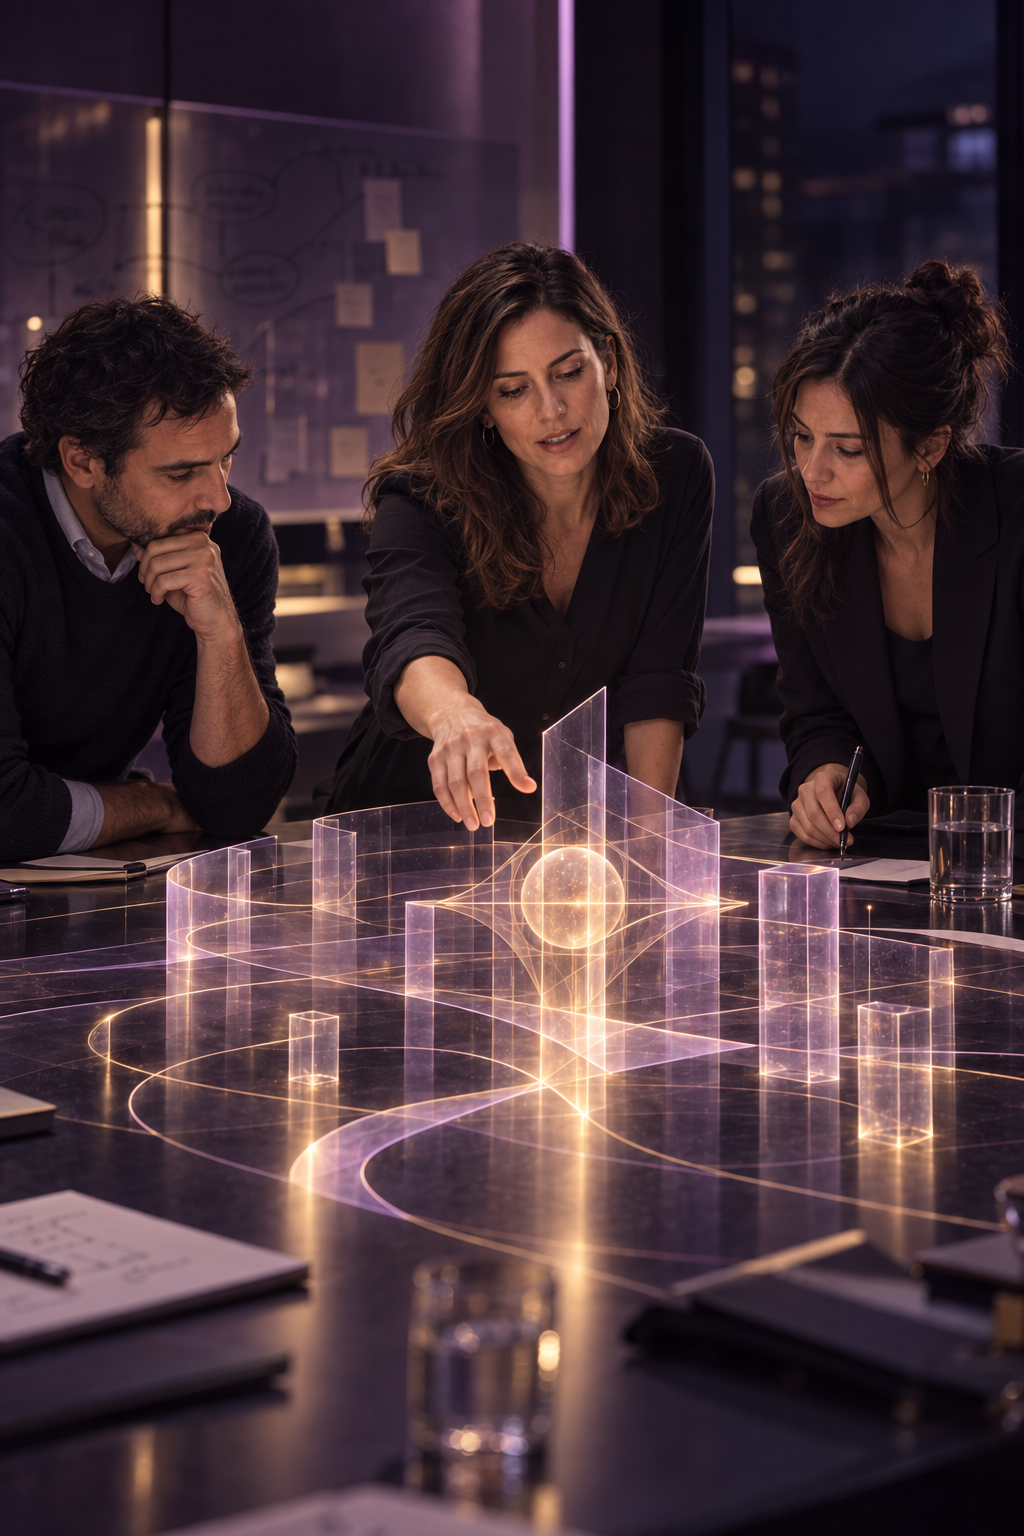
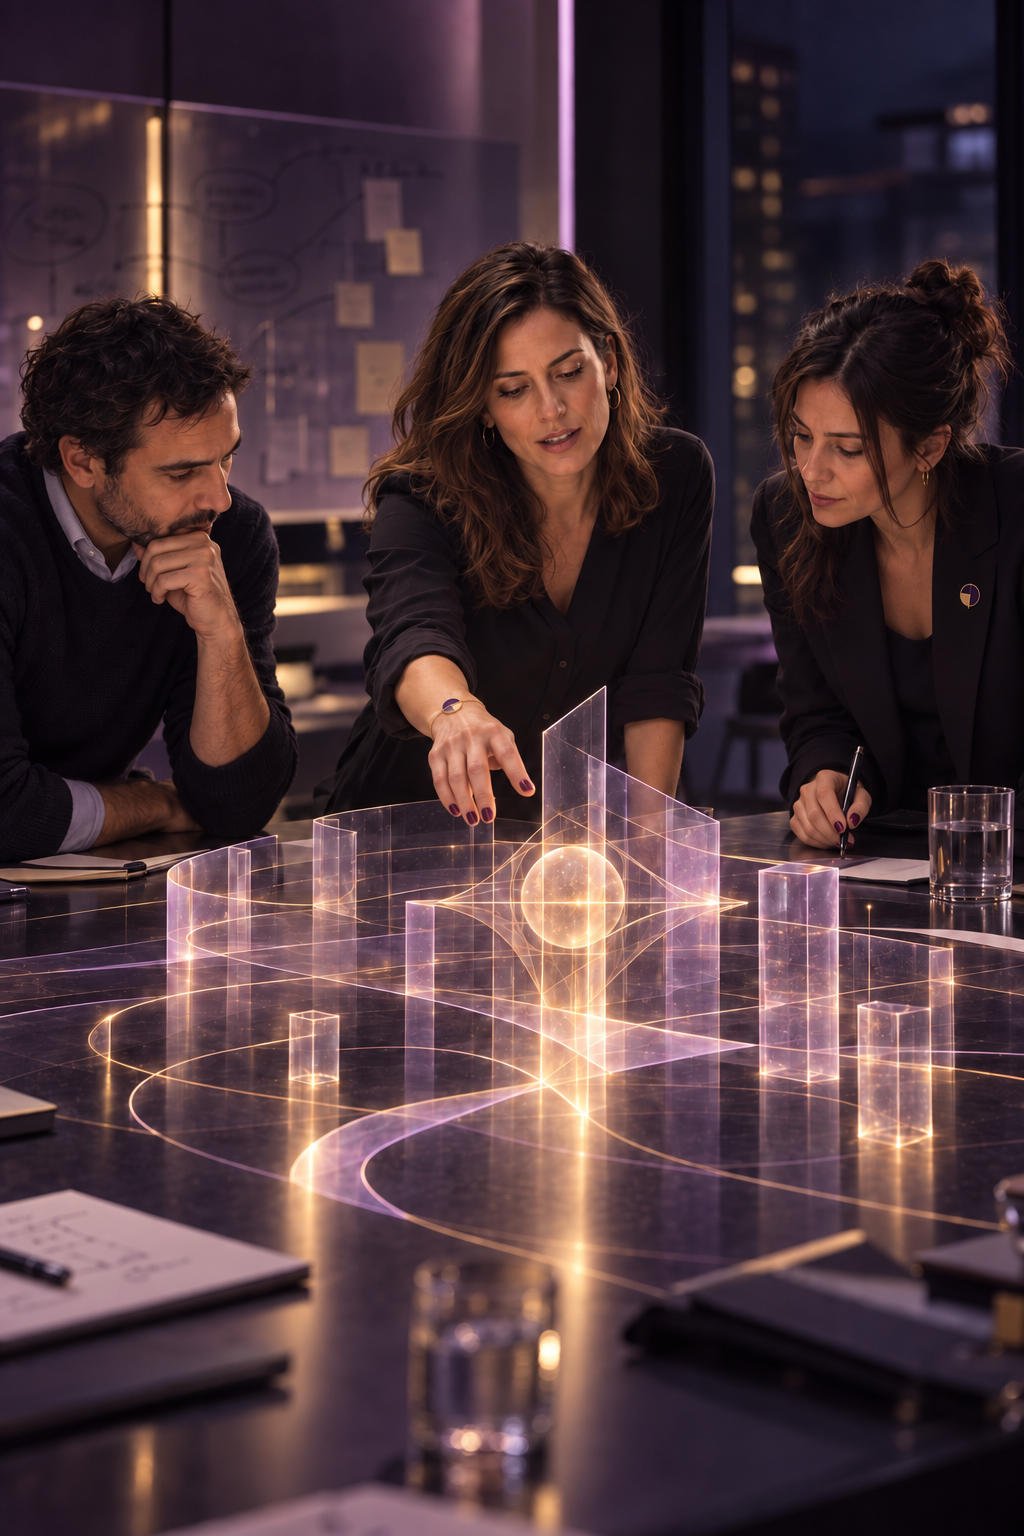
refine image details and soften visual panel edges

diff --git a/index.html b/index.html
@@ -893,13 +893,13 @@
     .lead-form label{color:#efb2ff}.lead-form input,.lead-form select{background:#160622;color:#fff;border-color:#a657d0;box-shadow:inset 0 0 0 1px rgba(226,60,255,.12)}.lead-form select option{background:#160622;color:#fff}.lead-form input:focus,.lead-form select:focus{border-color:#f08cff;box-shadow:0 0 0 3px rgba(226,60,255,.18)}.privacy-note,.confidential{color:#d8c8df}.art-card{background:linear-gradient(145deg,rgba(25,7,37,.98),rgba(9,2,16,.99));border-color:#6a337f}.art-card .caption{background:rgba(12,3,19,.92);border-color:#8b4ba8;color:#f2eafa}.caption p{color:#f2eafa}.caption span{color:#efb2ff}.landscape{opacity:.5}
     .book-origin-card h1,.book-origin-card .lead{color:#f2eafa}.book-flow div{background:rgba(12,3,19,.82);border-color:#5b2b72;color:#b5a5c0}.book-flow strong{color:#efb2ff}.origin-note{color:#a893b3}
     .flow-method{display:grid;grid-template-columns:repeat(4,1fr);gap:10px;margin:22px 0 8px}.flow-method article{padding:12px 10px;border:1px solid #5b2b72;border-radius:14px;background:rgba(12,3,19,.82)}.flow-method b{display:block;font-family:'Cormorant Garamond',serif;font-size:26px;color:#efb2ff;margin-bottom:4px}.flow-method strong{display:block;color:#f2eafa;font-size:11px;margin-bottom:6px}.flow-method span{display:block;color:#b5a5c0;font-size:10px;line-height:1.4}@media(max-width:1050px){.flow-method{grid-template-columns:repeat(2,1fr)}}
-    .system-visual{position:relative;min-height:420px;border-radius:22px;overflow:hidden;background:radial-gradient(circle at center,rgba(200,80,255,.2),transparent 28%),linear-gradient(150deg,#190829,#08020f);border:1px solid #6a337f;box-shadow:0 20px 60px rgba(0,0,0,.4)}
-    .system-visual:after{content:'';position:absolute;inset:-12%;background:radial-gradient(circle at 18% 20%,rgba(227,165,93,.16),transparent 24%),radial-gradient(circle at 82% 72%,rgba(226,60,255,.2),transparent 28%);filter:blur(32px);pointer-events:none}.orientation-illustration{position:absolute;inset:0;width:100%;height:100%;object-fit:cover;opacity:.9;filter:saturate(.9) contrast(1.02)}.illustration-caption{position:absolute;left:26px;top:24px;z-index:2;color:#f0b2ff;letter-spacing:.18em;font-size:10px;text-shadow:0 2px 14px #08020f}
+    .system-visual{position:relative;min-height:420px;border-radius:28px;overflow:hidden;background:radial-gradient(circle at center,rgba(200,80,255,.2),transparent 28%),linear-gradient(150deg,#190829,#08020f);border:1px solid rgba(106,51,127,.35);box-shadow:0 20px 60px rgba(0,0,0,.34)}
+    .system-visual:after{content:'';position:absolute;inset:-16%;background:radial-gradient(circle at 18% 20%,rgba(227,165,93,.18),transparent 24%),radial-gradient(circle at 82% 72%,rgba(226,60,255,.22),transparent 28%);filter:blur(38px);pointer-events:none}.orientation-illustration{position:absolute;inset:-3%;width:106%;height:106%;object-fit:cover;opacity:.92;filter:saturate(.9) contrast(1.02);mask-image:radial-gradient(ellipse at center,#000 54%,rgba(0,0,0,.92) 72%,transparent 100%);-webkit-mask-image:radial-gradient(ellipse at center,#000 54%,rgba(0,0,0,.92) 72%,transparent 100%)}.illustration-caption{position:absolute;left:26px;top:24px;z-index:2;color:#f0b2ff;letter-spacing:.18em;font-size:10px;text-shadow:0 2px 14px #08020f}
     .system-visual:before{content:'LECTURA DEL SISTEMA';position:absolute;top:24px;left:26px;color:#efb2ff;letter-spacing:.18em;font-size:10px}.flow-orbit{position:absolute;inset:16% 15%;border:1px solid rgba(226,60,255,.24);border-radius:50%}.orbit-b{inset:25% 24%;border-color:rgba(217,168,93,.35)}
     .flow-line{position:absolute;background:linear-gradient(90deg,transparent,#c77bff,transparent);opacity:.75}.line-top,.line-bottom{width:2px;height:63%;left:50%;top:18%}.line-right,.line-left{height:2px;width:63%;top:50%;left:18%}.flow-node{position:absolute;width:95px;height:95px;border:1px solid #a657d0;border-radius:50%;display:grid;place-items:center;align-content:center;gap:5px;background:rgba(16,4,24,.9);box-shadow:0 0 20px rgba(226,60,255,.25);color:#f2eafa;text-align:center}.flow-node span{font-size:26px;color:#efb2ff}.flow-node small{font-size:8px;letter-spacing:.12em}.node-org{top:12%;left:calc(50% - 47px)}.node-tech{right:9%;top:calc(50% - 47px)}.node-talent{bottom:12%;left:calc(50% - 47px)}.node-process{left:9%;top:calc(50% - 47px)}
     .flow-core{position:absolute;left:50%;top:50%;transform:translate(-50%,-50%);width:150px;height:150px;display:grid;place-items:center;align-content:center;text-align:center;border-radius:50%;background:radial-gradient(circle,#512066,#1a0728);border:1px solid #e273ff;box-shadow:0 0 38px rgba(226,60,255,.4),inset 0 0 25px rgba(226,60,255,.18)}.flow-core b{font-family:'Cormorant Garamond',serif;font-size:40px;color:#f2eafa;letter-spacing:.08em}.flow-core small{font-size:9px;color:#e3bd78;letter-spacing:.08em;max-width:100px}@media(max-width:1050px){.system-visual{min-height:300px}}
     .hero-result{background:linear-gradient(145deg,rgba(29,8,43,.98),rgba(10,2,17,.99));border-color:#6a337f;box-shadow:0 20px 60px rgba(0,0,0,.35)}.result-title{color:#efb2ff}.result-copy{color:#f2eafa}.hero-result .hint{color:#d8c8df}.hero-result .hint strong{color:#fff}.panel{background:rgba(19,6,28,.9);border-color:#5b2b72}.panel h3{color:#f2eafa}.why-list li{color:#d8c8df}.why-list b{color:#fff}.video,.resource,.intel-card,.module{background:rgba(19,6,28,.94);border-color:#5b2b72}.video-body h3,.resource h4,.intel-card strong,.module h4{color:#f2eafa}.video-body p,.resource p,.intel-card span,.module p{color:#d8c8df}.module.active{background:linear-gradient(135deg,rgba(66,18,84,.85),rgba(25,7,37,.98));border-color:#a657d0}.module-icon{background:#2a0d3a;color:#efb2ff}.lock{color:#d8c8df}.journey-unlock{background:linear-gradient(145deg,#2a0d3a,#13051d);border-color:#8b4ba8}.journey-copy{color:#d8c8df}.metric{background:rgba(19,6,28,.94);border-color:#5b2b72}.metric label{color:#d8c8df}.metric strong{color:#f2eafa}.mini-bar{background:#35163f}
-    h1,h2,.question-card h2,.journey-title,.modal-card h2{color:#f2eafa}.screen,.question-card{background:linear-gradient(135deg,rgba(42,13,58,.85),rgba(14,4,22,.92));border-color:#6a337f;box-shadow:0 18px 50px rgba(0,0,0,.32)}h1 em,.journey-title span{color:#e273ff}
+    h1,h2,.question-card h2,.journey-title,.modal-card h2{color:#f2eafa}.screen,.question-card{background:radial-gradient(circle at 14% 10%,rgba(96,27,125,.42),transparent 32%),radial-gradient(circle at 84% 78%,rgba(57,18,82,.34),transparent 38%),rgba(14,4,22,.84);border-color:#6a337f;box-shadow:0 18px 50px rgba(0,0,0,.32)}h1 em,.journey-title span{color:#e273ff}
     .screen{position:relative;isolation:isolate;overflow:hidden}.screen:before{content:'';position:absolute;inset:-20%;z-index:-1;background:radial-gradient(circle at 15% 12%,rgba(226,60,255,.2),transparent 28%),radial-gradient(circle at 84% 72%,rgba(106,42,156,.24),transparent 34%);filter:blur(42px)}.book-intro>*{position:relative;z-index:1}
     .option{background:rgba(12,3,19,.78);color:#eee4f3}.option:hover,.option.selected{border-color:#e23cff;background:rgba(66,18,84,.65);box-shadow:0 10px 30px rgba(226,60,255,.12)}.option .icon{background:rgba(226,60,255,.12);color:#e273ff}.option .copy strong{color:#f2eafa}.option .copy span{color:#b5a5c0}.radio{border-color:#7c568b}.option.selected .radio{background:#e23cff;border-color:#e23cff}
     .art-card{background:radial-gradient(circle at 72% 28%,rgba(226,60,255,.22),transparent 22%),radial-gradient(circle at 20% 75%,rgba(97,33,157,.28),transparent 34%),linear-gradient(145deg,#1c0730,#08020f 72%);border-color:#8b4ba8;box-shadow:inset 0 0 70px rgba(116,35,160,.16),0 18px 45px rgba(0,0,0,.3)}.art-card:before{content:'';position:absolute;inset:0;background-image:radial-gradient(rgba(239,178,255,.5) 1px,transparent 1px);background-size:44px 44px;opacity:.13}.art-card .caption{background:rgba(9,2,16,.9);border-color:#a657d0;color:#f2eafa;box-shadow:0 12px 30px rgba(0,0,0,.3)}.caption p{color:#f2eafa}.caption span{color:#efb2ff}.landscape{opacity:.8;filter:none;background:radial-gradient(circle at 76% 16%,rgba(227,165,93,.9) 0 18px,transparent 19px),linear-gradient(135deg,transparent 0 48%,rgba(226,60,255,.28) 49% 52%,transparent 53%),linear-gradient(160deg,transparent 0 45%,rgba(125,58,176,.35) 46% 58%,transparent 59%),linear-gradient(20deg,rgba(95,32,132,.45),rgba(226,60,255,.12))}.path{background:linear-gradient(180deg,rgba(239,178,255,.7),rgba(226,60,255,.38));opacity:.8}.btn,.cta{background:linear-gradient(100deg,#d523f0,#ef58ff);color:#fff}.confidential{color:#d8c8df}.back{color:#b5a5c0}
